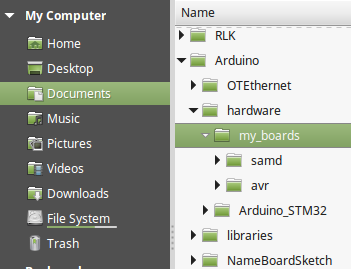
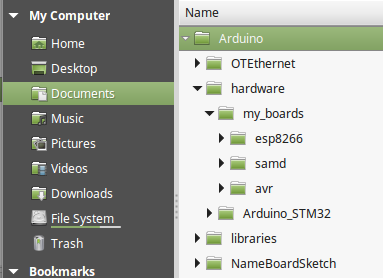
esp8266 boards definitions

diff --git a/README.MD b/README.MD
@@ -11,7 +11,7 @@ All boards in this repo are only additions to installed 'official' board package
 
 ### AVR architecture
 
-Boards defined here use my version of Optiboot bootloader with `copy_flash_pages` function (for ArduinoOTA library). platform.txt contains entries for sketch upload over network to ArduinoOTA library. All boards refer official Arduino AVR core and tools.
+Boards defined here use build of [Optiboot bootloader with `copy_flash_pages` function](https://github.com/Optiboot/optiboot/pull/269) (for ArduinoOTA library). platform.txt contains entries for sketch upload over network to ArduinoOTA library. All boards refer official Arduino AVR core and tools.
 
 The official Arduino Mega doesn't use Optiboot bootloader. It has a 4 kB bootloader. The board definition here is changed to respect 1 kB Optiboot bootloader. The AVR package can use arduino:mega as variant reference to official package, so the variants folder doesn't need to be copied here. 
 
@@ -22,3 +22,15 @@ I have [a small series ATmega1284p board](https://github.com/budvar10/Arduino-AT
 platform.txt contains an entry for remote upload, that is missing in the official package.
 
 I use a M0 board without bootloader. The official core doesn't define a SAMD board without bootloader. The variants/arduino_mzero folder is copied from the Arduino SAMD package.
+
+### esp8266
+
+For this to work you must replace in installed official platform.txt `{runtime.platform.path}` to `{build.core.path}/../../`. (Only until next version of the esp8266 package.) 
+
+platform.txt here contains entries required by the SPIFFS upload plugin. It searches for esptool command name only in selected board's folder.
+
+The esp8266 has too many Tools menu options and Sloeber doesn't remember them if hardware package is changed and takes some seconds to process the large boards.txt file of the esp8266 package every time I open project settings. So a smaller boards.txt with fixed settings I had always selected is convenient. 
+
+I have a Wemos D1 R2 wit 4MB flash and Wemos D1 mini clone with 1 MB flash. The official package contains only options for 4 MB flash so I copied the 1 MB flash options from the Generic section.
+
+I have a Grove UART WiFi module a simple module with Rx, TX pins only. Now it has a name in my boards menu. 
